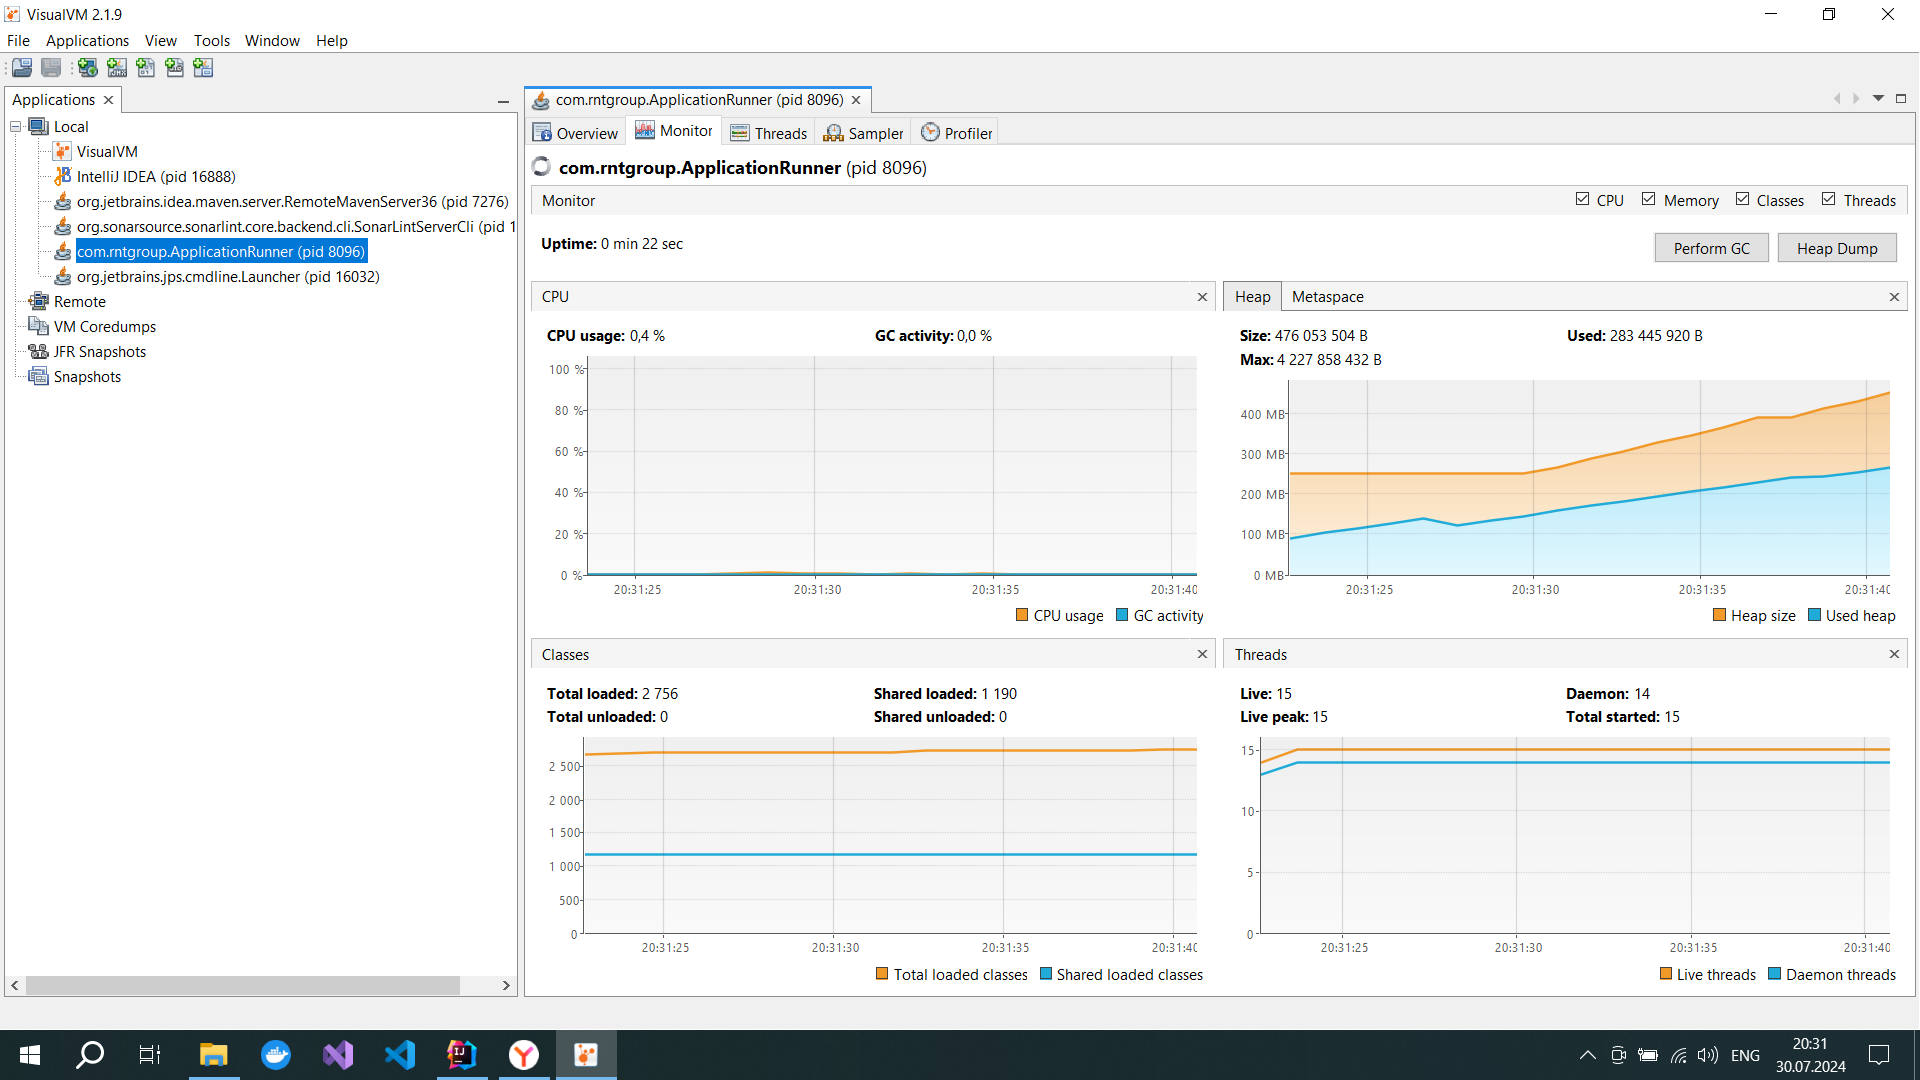
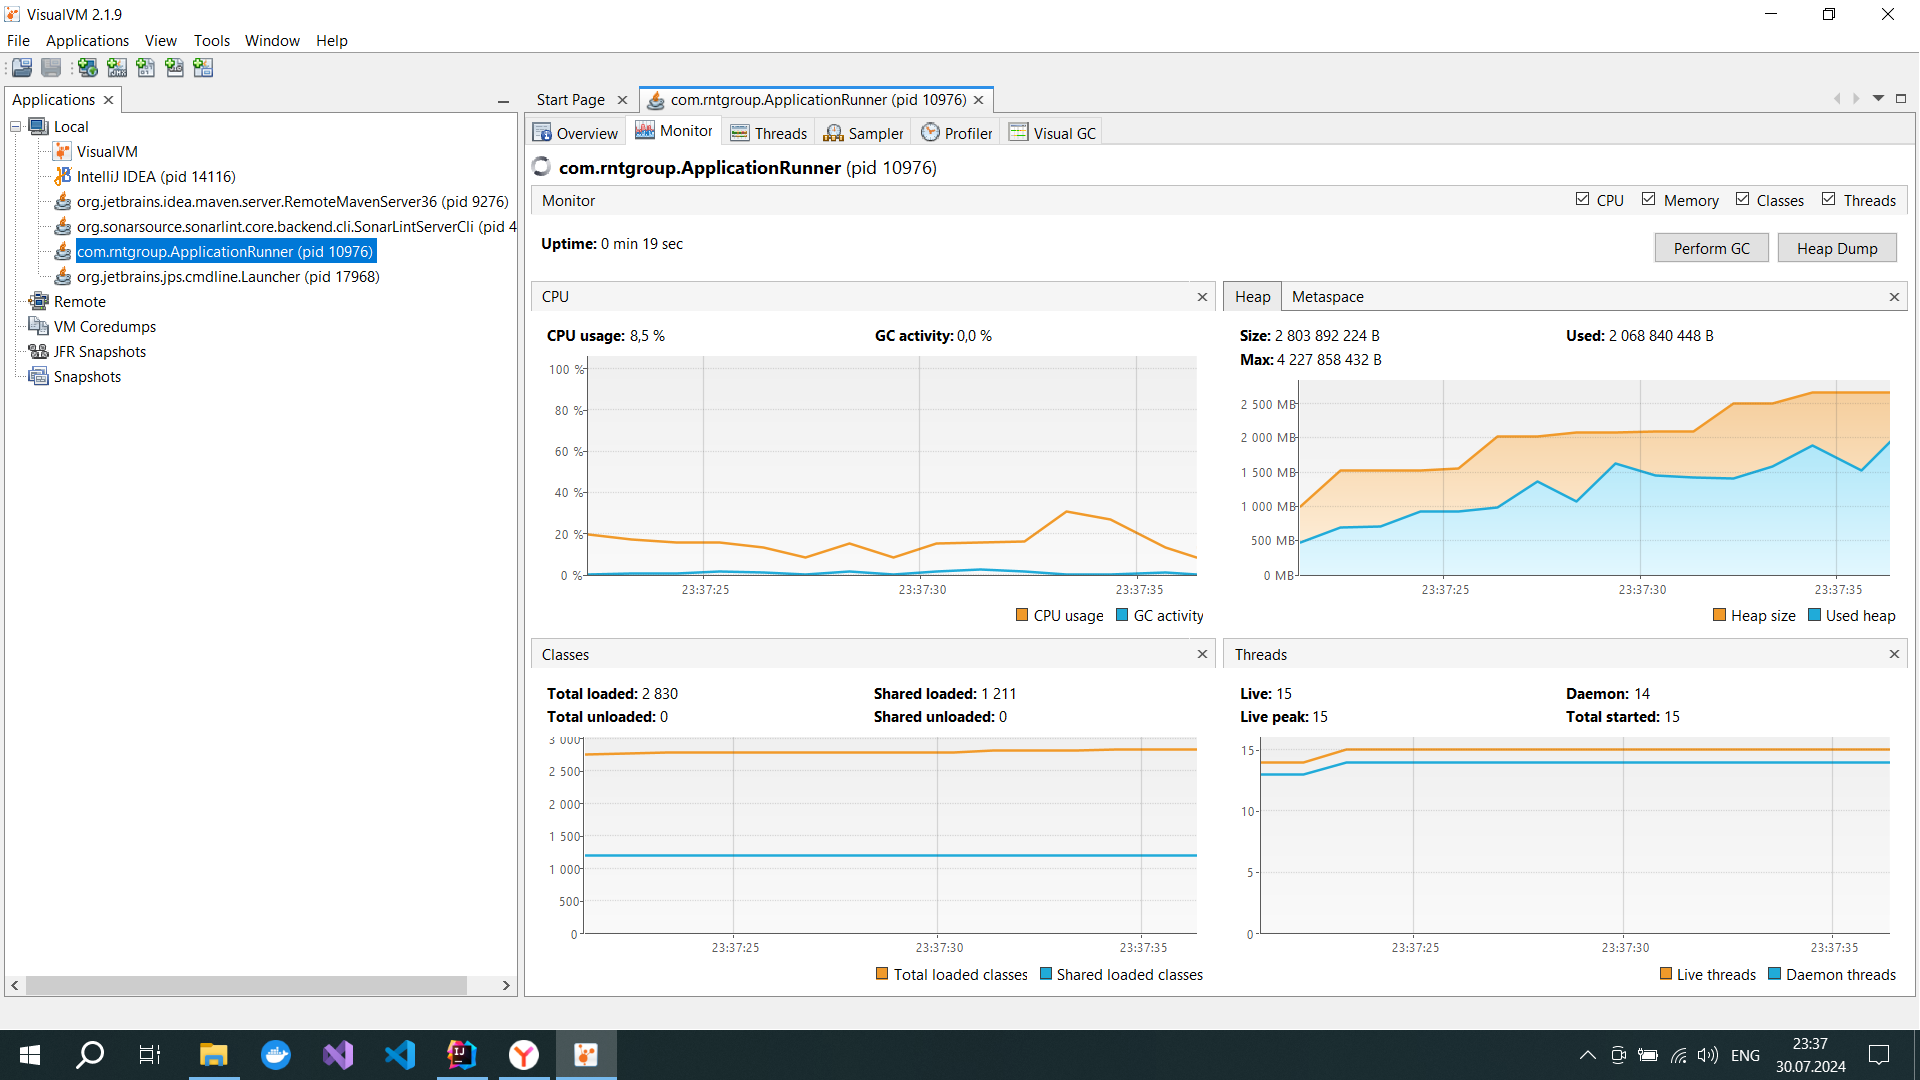
Improved the execution of the sixth task

diff --git a/SixthTask/src/main/java/com/rntgroup/poultryfarm/PoultryFarmStatistics.java b/SixthTask/src/main/java/com/rntgroup/poultryfarm/PoultryFarmStatistics.java
@@ -1,0 +1,55 @@
+package com.rntgroup.poultryfarm;
+
+import com.rntgroup.util.LocalDateUtil;
+
+import java.time.Month;
+import java.util.Collection;
+import java.util.List;
+import java.util.Map;
+import java.util.Optional;
+import java.util.function.Supplier;
+import java.util.stream.Collectors;
+
+public class PoultryFarmStatistics {
+    public static final int NUMBER_OF_EGGS_PRODUCED_IN_THREE_WEEKS = 20;
+    private static final int THREE_WEEKS = 3;
+    private final Collection<PoultryFarmProduction> poultryFarmProductions;
+
+    public PoultryFarmStatistics(Supplier<Collection<PoultryFarmProduction>> supplier, List<PoultryFarmProduction> storage) {
+        poultryFarmProductions = supplier.get();
+        poultryFarmProductions.addAll(storage);
+    }
+
+    // Список типов птиц, которые хотя бы один раз произвели больше 20 яиц за последние 3 недели
+    public List<BirdType> getBirdTypesByCond() {
+        return poultryFarmProductions.stream()
+                .filter(poultryFarmProduction -> LocalDateUtil.dateIsCorrectWeek(poultryFarmProduction.getProductionDate(), THREE_WEEKS))
+                .collect(Collectors.groupingBy(
+                        PoultryFarmProduction::getBirdType,
+                        Collectors.summingInt(PoultryFarmProduction::getNumberOfEggsProduced)))
+                .entrySet().stream()
+                .filter(poultryFarmProduction -> poultryFarmProduction.getValue() > NUMBER_OF_EGGS_PRODUCED_IN_THREE_WEEKS)
+                .map(Map.Entry::getKey)
+                .toList();
+    }
+
+    // Самый продуктивный месяц
+    public Optional<Month> getTheMostProductiveMonth() {
+        return poultryFarmProductions.stream()
+                .collect(Collectors.groupingBy(
+                        (PoultryFarmProduction poultryFarmProduction) -> poultryFarmProduction.getProductionDate().getMonth(),
+                        Collectors.summingInt(PoultryFarmProduction::getNumberOfEggsProduced)))
+                .entrySet().stream()
+                .max(Map.Entry.comparingByValue())
+                .stream()
+                .findFirst()
+                .map(Map.Entry::getKey);
+    }
+
+    // Общее количество произведенных яиц
+    public int getTotalNumberOfEggsProduced() {
+        return poultryFarmProductions.stream()
+                .mapToInt(PoultryFarmProduction::getNumberOfEggsProduced)
+                .sum();
+    }
+}

diff --git a/SixthTask/src/main/java/com/rntgroup/ApplicationRunner.java b/SixthTask/src/main/java/com/rntgroup/ApplicationRunner.java
@@ -1,14 +1,33 @@
 package com.rntgroup;
 
+import com.rntgroup.performance.PerformanceTester;
+import com.rntgroup.performance.TimeMeasurement;
+
 import java.util.ArrayList;
+import java.util.HashSet;
+import java.util.LinkedList;
 import java.util.List;
 
 public class ApplicationRunner {
-    public static void main(String[] args) throws InterruptedException {
-        List<Object> objectPool = new ArrayList<>();
+    public static void main(String[] args) {
+        List<PerformanceTester> testerList = new ArrayList<>();
         while (true) {
-            objectPool.add(new byte[10 * 1024 * 1024]);
-            Thread.sleep(1000);
+            PerformanceTester tester = new PerformanceTester();
+            testerList.add(tester);
+            printResults(tester.testCollection(ArrayList::new), "ArrayList");
+            printResults(tester.testCollection(LinkedList::new), "LinkedList");
+            printResults(tester.testCollection(HashSet::new), "HashSet");
         }
+    }
+
+    private static void printResults(TimeMeasurement timeMeasurement, String collectionName) {
+        System.out.printf("Результаты коллекции %s:\n", collectionName);
+        System.out.println("\nВремя создания: " + timeMeasurement.getCreation() + " наносекунд");
+        System.out.println("\nВремя нахождения списка типов птиц, которые хотя бы один раз произвели больше 20 яиц за последние 3 недели: "
+                           + timeMeasurement.getBirdTypesByCond() + " наносекунд");
+        System.out.println("\nВремя нахождения самого продуктивного месяца: "
+                           + timeMeasurement.getTheMostProductiveMonth() + " наносекунд");
+        System.out.println("\nВремя нахождения общего количества произведенных яиц: "
+                           + timeMeasurement.getTotalNumberOfEggsProduced() + " наносекунд\n\n");
     }
 }

diff --git a/SixthTask/src/main/java/com/rntgroup/performance/PerformanceTester.java b/SixthTask/src/main/java/com/rntgroup/performance/PerformanceTester.java
@@ -1,0 +1,32 @@
+package com.rntgroup.performance;
+
+import com.rntgroup.poultryfarm.PoultryFarmProduction;
+import com.rntgroup.poultryfarm.PoultryFarmProductionListFactory;
+import com.rntgroup.poultryfarm.PoultryFarmStatistics;
+
+import java.util.Collection;
+import java.util.function.Supplier;
+
+public class PerformanceTester {
+    private PoultryFarmStatistics poultryFarmStatistics;
+
+    public TimeMeasurement testCollection(Supplier<Collection<PoultryFarmProduction>> supplier) {
+
+        long creationTime = getMethodExecutionTime(() -> poultryFarmStatistics = new PoultryFarmStatistics(supplier,
+                PoultryFarmProductionListFactory.getPoultryFarmProductionList()));
+        long birdTypesByCondTime = getMethodExecutionTime(poultryFarmStatistics::getBirdTypesByCond);
+        long theMostProductiveMonthTime = getMethodExecutionTime(poultryFarmStatistics::getTheMostProductiveMonth);
+        long totalNumberOfEggsProducedTime = getMethodExecutionTime(poultryFarmStatistics::getTotalNumberOfEggsProduced);
+
+        return new TimeMeasurement(creationTime,
+                birdTypesByCondTime,
+                theMostProductiveMonthTime,
+                totalNumberOfEggsProducedTime);
+    }
+
+    private static long getMethodExecutionTime(Runnable method) {
+        long timeBeforeExecution = System.nanoTime();
+        method.run();
+        return System.nanoTime() - timeBeforeExecution;
+    }
+}

diff --git a/SixthTask/src/main/java/com/rntgroup/poultryfarm/PoultryFarmProductionFactory.java b/SixthTask/src/main/java/com/rntgroup/poultryfarm/PoultryFarmProductionFactory.java
@@ -1,0 +1,27 @@
+package com.rntgroup.poultryfarm;
+
+import java.time.LocalDate;
+import java.util.Random;
+
+public class PoultryFarmProductionFactory {
+    private static final Random RANDOM = new Random();
+    private static final int MIN_NUMBER_OF_EGGS_PRODUCED = 1;
+    private static final int MAX_NUMBER_OF_EGGS_PRODUCED = 20;
+    private static final BirdType[] BIRD_TYPES = BirdType.values();
+
+    private PoultryFarmProductionFactory() {
+    }
+
+    public static PoultryFarmProduction getPoultryFarmProduction() {
+        return new PoultryFarmProduction(BIRD_TYPES[RANDOM.nextInt(BIRD_TYPES.length)],
+                RANDOM.nextInt(MIN_NUMBER_OF_EGGS_PRODUCED, MAX_NUMBER_OF_EGGS_PRODUCED),
+                getRandomDate());
+    }
+
+    private static LocalDate getRandomDate() {
+        long minDay = LocalDate.of(2000, 1, 1).toEpochDay();
+        long maxDay = LocalDate.of(2023, 12, 31).toEpochDay();
+        long randomDay = minDay + RANDOM.nextLong() % (maxDay - minDay);
+        return LocalDate.ofEpochDay(randomDay);
+    }
+}

diff --git a/SixthTask/src/main/java/com/rntgroup/poultryfarm/PoultryFarmProductionListFactory.java b/SixthTask/src/main/java/com/rntgroup/poultryfarm/PoultryFarmProductionListFactory.java
@@ -1,0 +1,23 @@
+package com.rntgroup.poultryfarm;
+
+import java.util.List;
+import java.util.stream.Collectors;
+import java.util.stream.Stream;
+
+public class PoultryFarmProductionListFactory {
+    private static int count;
+
+    static {
+        count = 3412;
+    }
+
+    public static void setCount(int count) {
+        PoultryFarmProductionListFactory.count = count;
+    }
+
+    public static List<PoultryFarmProduction> getPoultryFarmProductionList() {
+        return Stream.generate(PoultryFarmProductionFactory::getPoultryFarmProduction)
+                .limit(count)
+                .collect(Collectors.toList());
+    }
+}

diff --git a/SixthTask/src/main/java/com/rntgroup/poultryfarm/PoultryFarmProduction.java b/SixthTask/src/main/java/com/rntgroup/poultryfarm/PoultryFarmProduction.java
@@ -1,0 +1,20 @@
+package com.rntgroup.poultryfarm;
+
+import lombok.Getter;
+import lombok.Setter;
+
+import java.time.LocalDate;
+
+@Getter
+@Setter
+public class PoultryFarmProduction {
+    private BirdType birdType;
+    private int numberOfEggsProduced;
+    private LocalDate productionDate;
+
+    public PoultryFarmProduction(BirdType birdType, int numberOfEggsProduced, LocalDate productionDate) {
+        this.birdType = birdType;
+        this.numberOfEggsProduced = numberOfEggsProduced;
+        this.productionDate = productionDate;
+    }
+}

diff --git a/SixthTask/src/main/java/com/rntgroup/util/LocalDateUtil.java b/SixthTask/src/main/java/com/rntgroup/util/LocalDateUtil.java
@@ -1,0 +1,14 @@
+package com.rntgroup.util;
+
+import lombok.experimental.UtilityClass;
+
+import java.time.LocalDate;
+
+import static java.time.temporal.ChronoUnit.WEEKS;
+
+@UtilityClass
+public class LocalDateUtil {
+    public static boolean dateIsCorrectWeek(LocalDate localDate, int weeks) {
+        return WEEKS.between(localDate, LocalDate.now()) <= weeks;
+    }
+}

diff --git a/SixthTask/src/main/java/com/rntgroup/performance/TimeMeasurement.java b/SixthTask/src/main/java/com/rntgroup/performance/TimeMeasurement.java
@@ -1,0 +1,15 @@
+package com.rntgroup.performance;
+
+import lombok.AllArgsConstructor;
+import lombok.Getter;
+import lombok.Setter;
+
+@Getter
+@Setter
+@AllArgsConstructor
+public class TimeMeasurement {
+    private long creation;
+    private long birdTypesByCond;
+    private long theMostProductiveMonth;
+    private long totalNumberOfEggsProduced;
+}

diff --git a/SixthTask/src/main/java/com/rntgroup/poultryfarm/BirdType.java b/SixthTask/src/main/java/com/rntgroup/poultryfarm/BirdType.java
@@ -1,0 +1,7 @@
+package com.rntgroup.poultryfarm;
+
+public enum BirdType {
+    CHICKEN,
+    DUCK,
+    TURKEY
+}
